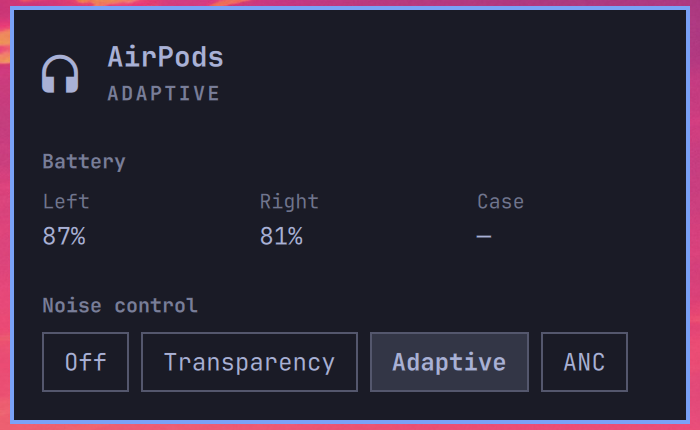
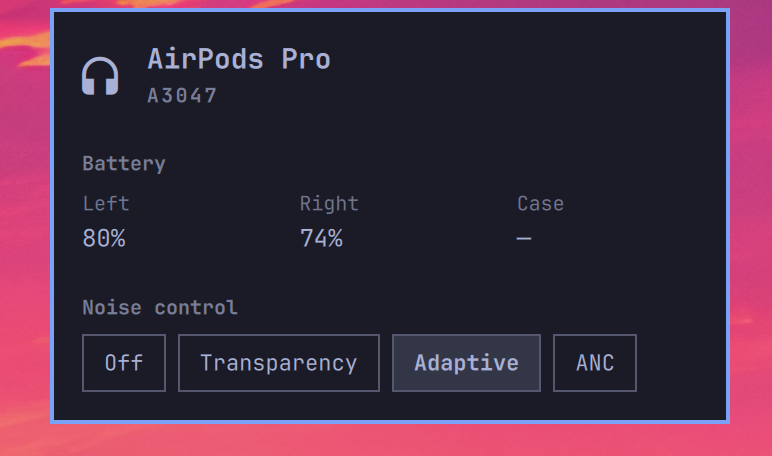
feat: hold one AAP channel open, and show the device
The AirPods report the noise control mode and the device metadata one
time for each Bluetooth connection, to the client that holds the channel
at that moment. A client that connects later reads almost nothing, so
polling returned a null mode as soon as the first session was over.

`watch` now holds one channel open, prints a JSON line for each change,
and takes mode names on stdin, because a write must go out on the same
channel. That removes the poll timer, the interval setting, and one of
the two processes.

The panel header shows the device name and the model number, which the
same stream carries. The mode is no longer repeated there, because the
picker already shows it.

diff --git a/Widget.qml b/Widget.qml
@@ -6,7 +6,9 @@ import qs.Ui
 
 // Bar widget for AirPods: headphone icon with the lowest pod's battery, and a
 // popup that switches noise control mode. All device work happens in bin/airpods,
-// which speaks Apple's AAP protocol; this file only renders what it prints.
+// which holds one AAP channel open and prints a JSON line per change. Mode
+// changes go back to it on stdin, because the AirPods obey only the client
+// that holds the channel.
 Panel {
   id: root
   moduleName: "soup.airpods"
@@ -16,11 +18,12 @@ Panel {
   // checkout path without anything on PATH.
   readonly property string script: Qt.resolvedUrl("bin/airpods").toString().replace("file://", "")
 
-  readonly property int refreshIntervalSec: setting("refreshIntervalSec", 60)
   readonly property bool showBattery: setting("showBattery", true) === true
 
   property bool connected: false
   property string mode: ""
+  property string deviceName: ""
+  property string model: ""
   property var battery: ({})
 
   readonly property var modeOptions: [
@@ -40,12 +43,6 @@ Panel {
   readonly property bool showsPercent: showBattery && connected
     && lowestBattery >= 0 && !button.vertical
 
-  function modeLabel() {
-    for (var i = 0; i < modeOptions.length; i++)
-      if (modeOptions[i].value === mode) return modeOptions[i].label
-    return "Unknown mode"
-  }
-
   function batteryText(component) {
     var level = battery ? battery[component] : undefined
     return (level === undefined || level === null) ? "—" : level + "%"
@@ -61,52 +58,35 @@ Panel {
     }
     connected = data.connected === true
     mode = connected ? (data.mode || "") : ""
+    deviceName = connected ? (data.name || "") : ""
+    model = connected ? (data.model || "") : ""
     battery = connected && data.battery ? data.battery : ({})
   }
 
-  function refresh() {
-    if (statusProcess.running) return
-    statusProcess.command = [root.script, "status"]
-    statusProcess.running = true
-  }
-
   function setMode(value) {
-    if (setProcess.running || !connected) return
-    // Paint the new mode straight away; the refresh after the write confirms it.
+    if (!connected) return
+    // Paint the new mode straight away; the next line from the watcher confirms it.
     mode = value
-    setProcess.command = [root.script, "set", value]
-    setProcess.running = true
+    aap.write(value + "\n")
   }
 
   Process {
-    id: statusProcess
-    running: false
-    command: []
-    stdout: StdioCollector { id: statusOut; waitForEnd: true }
-    onExited: function(exitCode) {
-      if (exitCode === 0) root.applyStatus(String(statusOut.text || ""))
-      else root.connected = false
+    id: aap
+    command: [root.script, "watch"]
+    running: true
+    stdinEnabled: true
+    stdout: SplitParser { onRead: function(line) { root.applyStatus(line) } }
+    onExited: {
+      root.connected = false
+      restart.start()
     }
   }
 
-  Process {
-    id: setProcess
-    running: false
-    command: []
-    onExited: function() { root.refresh() }
-  }
-
   Timer {
-    // One poll opens a short Bluetooth channel, so poll slowly when the popup is
-    // closed and quickly while the user is looking at it.
-    interval: (root.opened ? 10 : Math.max(15, root.refreshIntervalSec)) * 1000
-    running: true
-    repeat: true
-    triggeredOnStart: true
-    onTriggered: root.refresh()
+    id: restart
+    interval: 2000
+    onTriggered: aap.running = true
   }
-
-  onOpenedChanged: if (opened) refresh()
 
   implicitWidth: button.implicitWidth
   implicitHeight: button.implicitHeight
@@ -151,8 +131,8 @@ Panel {
 
         PanelHero {
           width: parent.width
-          title: "AirPods"
-          meta: root.connected ? root.modeLabel() : "Not connected"
+          title: root.deviceName || "AirPods"
+          meta: root.connected ? root.model : "Not connected"
           foreground: root.bar.foreground
           fontFamily: root.bar.fontFamily
           iconOpacity: root.connected ? 1.0 : 0.5
@@ -221,13 +201,27 @@ Panel {
             text: "Noise control"
           }
 
-          ButtonGroup {
+          Row {
             id: modeGroup
-            options: root.modeOptions
-            value: root.mode
-            foreground: root.bar.foreground
-            fontFamily: root.bar.fontFamily
-            onChanged: function(value) { root.setMode(value) }
+            spacing: Style.spacing.md
+
+            Repeater {
+              model: root.modeOptions
+
+              Button {
+                required property var modelData
+
+                text: modelData.label
+                // `selected` is the whole state model. A cursor flag as well
+                // would latch on and light a second chip.
+                selected: modelData.value === root.mode
+                bordered: true
+                foreground: root.bar.foreground
+                fontFamily: root.bar.fontFamily
+                fontSize: Style.font.bodySmall
+                onClicked: root.setMode(modelData.value)
+              }
+            }
           }
         }
       }

diff --git a/README.md b/README.md
@@ -3,7 +3,7 @@
 AirPods noise control and battery in the [Omarchy](https://omarchy.org/) bar.
 
 Standard Bluetooth profiles carry audio and the media keys, but they do not
-carry noise control mode, per-pod battery, or in-ear status. Apple sends these
+carry noise control mode or per-pod battery. Apple sends these
 over a vendor protocol (AAP) on L2CAP PSM `0x1001`. This plugin speaks that
 protocol directly.
 
@@ -11,9 +11,10 @@ protocol directly.
 
 The panel shows:
 
+- The device name and the model number
 - The battery level of each pod and of the case
-- The current noise control mode
-- Buttons for Off, Transparency, Adaptive, and ANC
+- Buttons for Off, Transparency, Adaptive, and ANC, with the current mode
+  selected
 
 The bar shows a headphone icon with the battery level of the lowest pod. The
 icon is dim when no AirPods are connected.
@@ -55,22 +56,28 @@ awareness, and hearing aid settings. This plugin does less, from the bar.
 The backend works on its own:
 
 ```bash
+~/.config/omarchy/plugins/soup.airpods/bin/airpods watch
 ~/.config/omarchy/plugins/soup.airpods/bin/airpods status
-~/.config/omarchy/plugins/soup.airpods/bin/airpods set transparency
 ~/.config/omarchy/plugins/soup.airpods/bin/airpods selftest
 ```
 
-`status` prints JSON:
+`status` prints one JSON line and exits. `watch` holds the channel open and
+prints a line for each change, which is what the panel runs:
 
 ```json
-{"connected": true, "address": "…", "mode": "adaptive",
- "battery": {"left": 90, "right": 85, "case": null}}
+{"connected": true, "address": "…", "name": "AirPods Pro", "model": "A3047",
+ "mode": "adaptive", "battery": {"left": 90, "right": 85, "case": null}}
 ```
+
+The AirPods report the mode and the model one time for each Bluetooth
+connection, to the client that holds the channel at that moment. A client
+that connects later reads almost nothing. While the panel runs, `status`
+therefore returns nulls, and it is useful only on a machine where the panel
+is not running. `watch` also takes mode names on stdin, because a write must
+go out on the channel that the AirPods are listening to.
 
 A `null` battery level means the component did not report one, which is normal
 for the case while the pods are in your ears.
-
-To bind a mode to a key, call `set` from your Hyprland config.
 
 ## Settings
 
@@ -78,15 +85,11 @@ Set these in `~/.config/omarchy/shell.json`, in the widget's entry:
 
 | Key | Default | What it does |
 |---|---|---|
-| `refreshIntervalSec` | `60` | Seconds between reads while the panel is closed |
 | `showBattery` | `true` | Show the battery percent next to the bar icon |
-
-Each read opens a short Bluetooth channel, so a small interval costs more
-radio time. The panel polls every 10 seconds while it is open.
 
 ## Tested with
 
-AirPods Pro (model A3048) on Omarchy 4, BlueZ 5.87. Other AirPods models use
+AirPods Pro (model A3047) on Omarchy 4, BlueZ 5.87. Other AirPods models use
 the same protocol, but they are not tested. Reports are welcome.
 
 ## Development
@@ -101,8 +104,10 @@ omarchy restart shell
 ## How it works
 
 `bin/airpods` connects to L2CAP PSM `0x1001`, sends the AAP handshake, then
-asks for the feature flags and the notification stream. The AirPods answer with
-battery, ear, and mode packets. Writing a mode is one control command packet.
+asks for the feature flags and the notification stream. The AirPods answer
+with metadata, battery, and mode packets. Writing a mode is one control
+command packet on the same channel, which is why `watch` reads mode names
+from stdin.
 
 The packet format was worked out by the LibrePods project. This plugin
 implements a small part of it.
